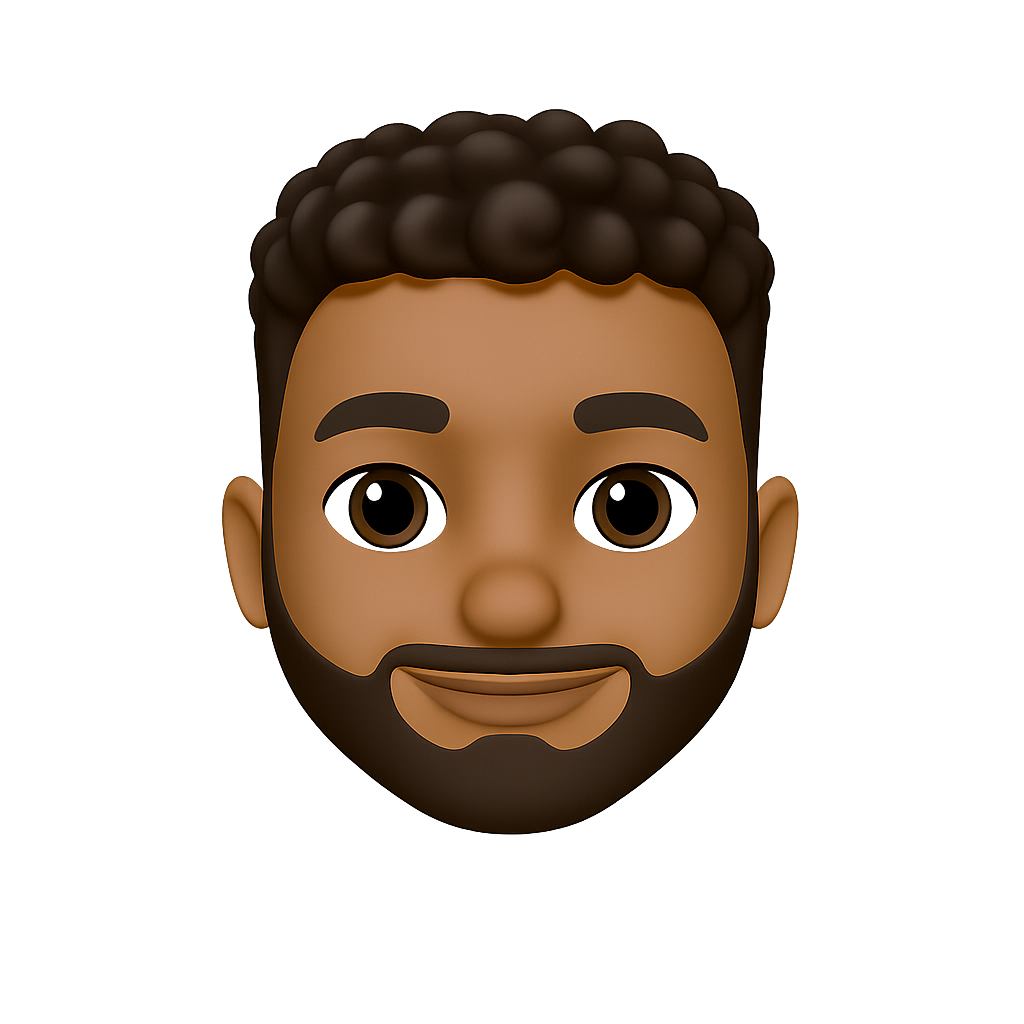
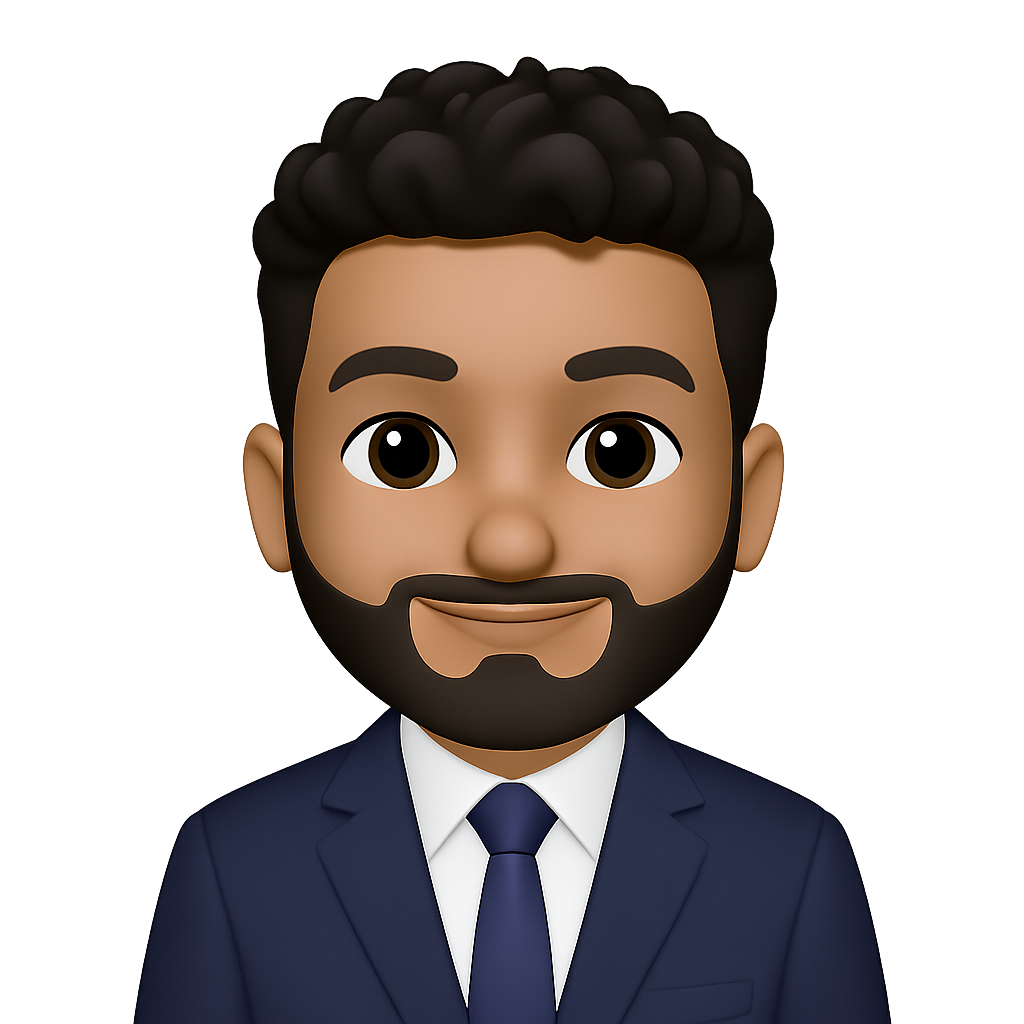
changes

diff --git a/index.html b/index.html
@@ -321,7 +321,7 @@
                 <div class="content-card" data-testimonials-item>
                   <figure class="testimonials-avatar-box">
                     <img
-                      src="./assets/images/avatar-9.png"
+                      src="./assets/images/avatar-4.png"
                       alt="Dhruv Shah"
                       width="60"
                       data-testimonials-avatar
